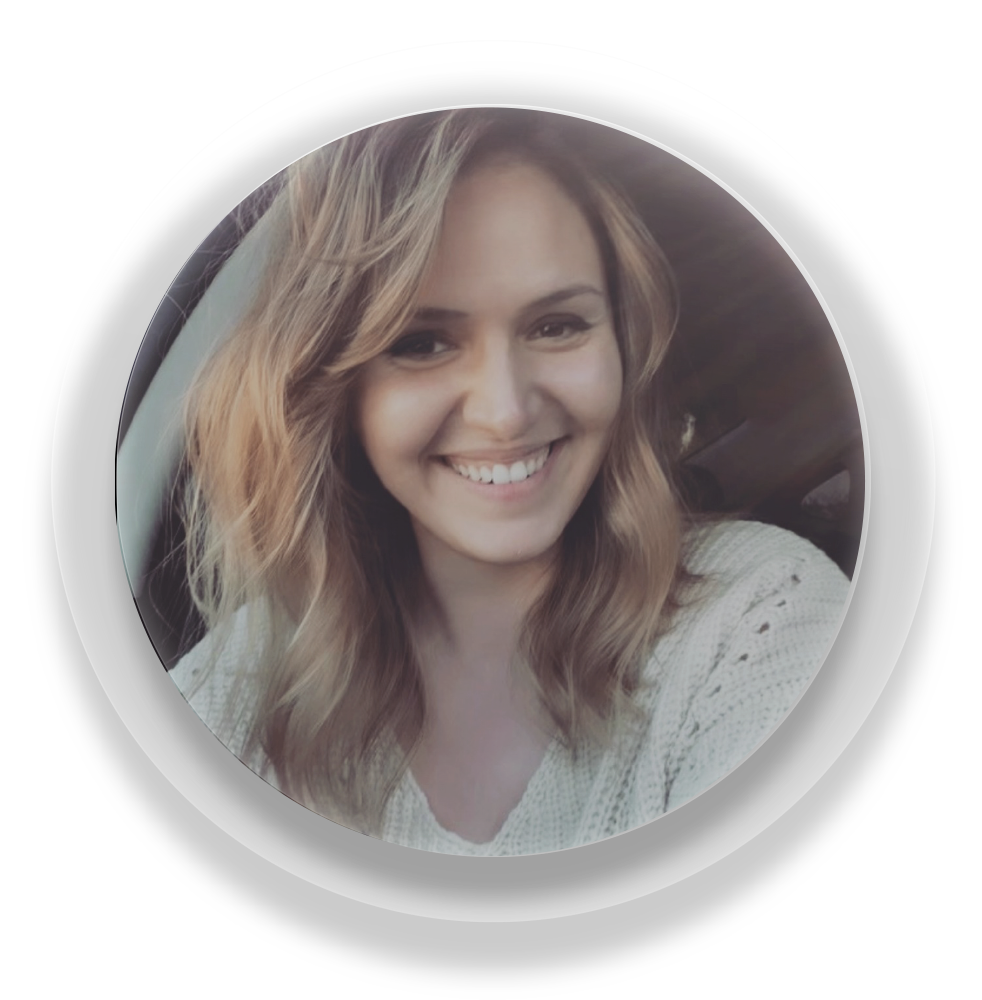
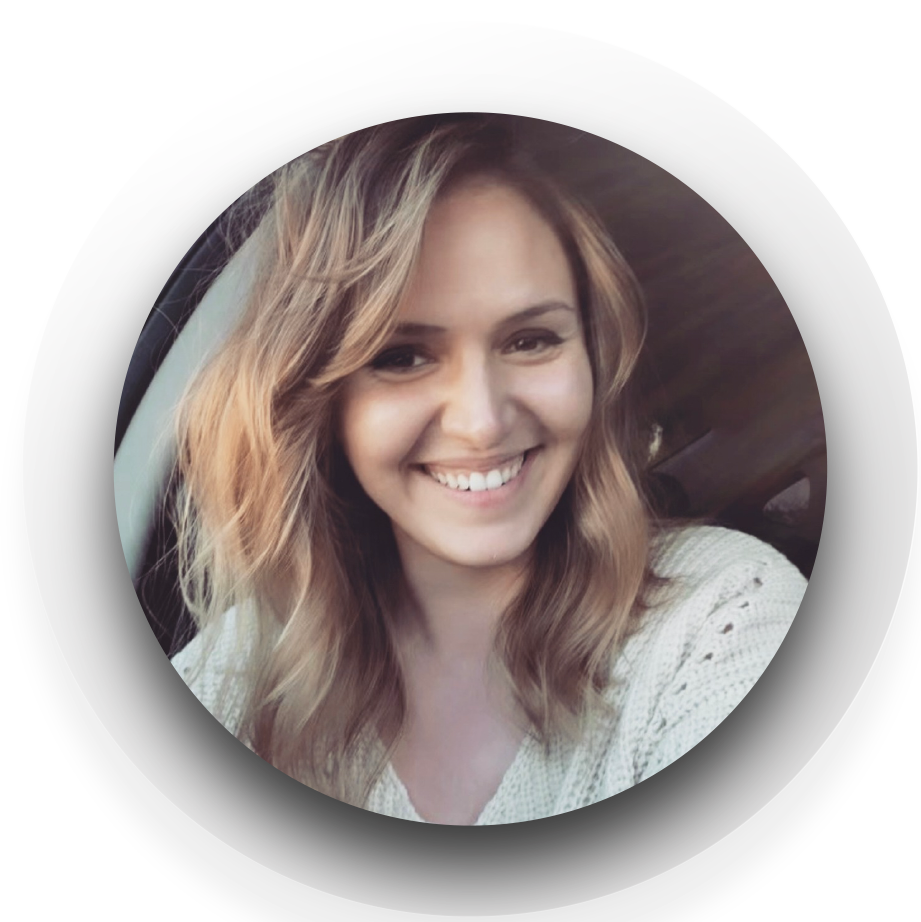
portfolio pic

diff --git a/src/Portfolio.js b/src/Portfolio.js
@@ -134,7 +134,7 @@ function Portfolio() {
       <div className='flexbox mobile'>
         <Top />
         <div className='flex1 box top-small'>
-          <h1 className='h1-primary mobile-center mobile-margins-2'>Nice to meet you! I'm Lora.</h1>
+          <h1 className='h1-primary mobile-center mobile-margins-2'>Hi! I'm Lora.</h1>
           <div className='flexbox top-small'>
             <div className='flex2'><p className='p-primary mobile-center mobile-margins-2'>UX/UI Designer, Visual Designer, Developer</p></div>
             <div className='flex1'></div>

diff --git a/src/Portfolio.css b/src/Portfolio.css
@@ -15,7 +15,7 @@
 
 .img-globe {
   width: 700px;
-  opacity: 10%;
+  opacity: 3%;
 }
 
 .container {
@@ -43,7 +43,7 @@
 @media screen and (max-width: 1025px) {
 
   .bub-mobile {
-    width: 300px;
+    width: 350px;
   }
 
   .img-profile {
@@ -59,7 +59,7 @@
   .img-globe {
     width: 300px;
     margin-left: 20px;
-    opacity: 10%;
+    opacity: 5%;
   }
 
   .portfolio-bubble {
